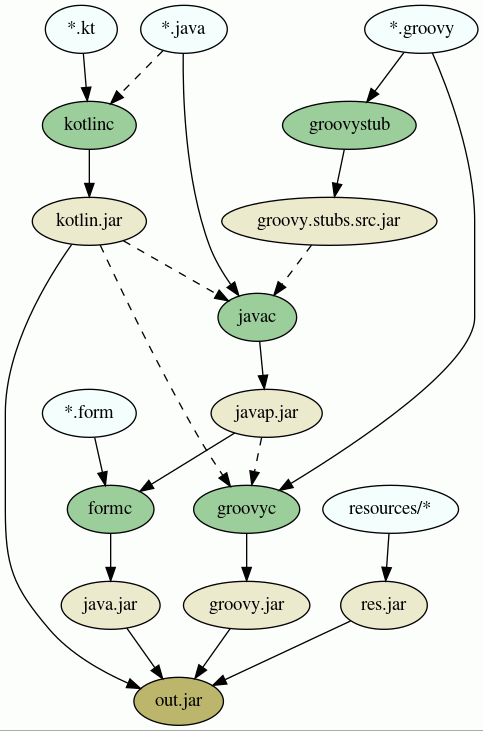
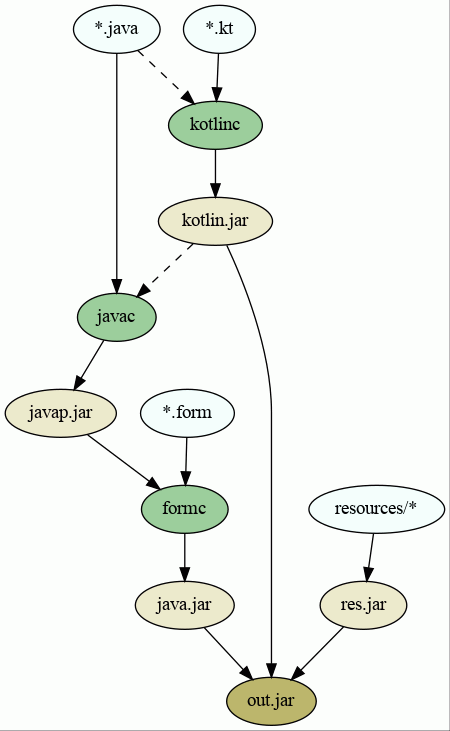
Remove support for groovy in iml_module rules
Test: All existing tests should still pass
Bug: N/A

diff --git a/bazel/docs/iml-module.md b/bazel/docs/iml-module.md
@@ -1,7 +1,7 @@
 Implementation of the `iml_module` rule
 ---
 The `iml_module` Bazel rule is relatively complicated, because it has to combine
-several tools: `javac`, `kotlinc`, `formc`, `groovyc`, etc.
+several tools: `javac`, `kotlinc`, `formc`, etc.
 
 Here is a graph showing how these tools are connected in the build graph when
 building a single iml module. Note that dashed lines represent inputs that are
